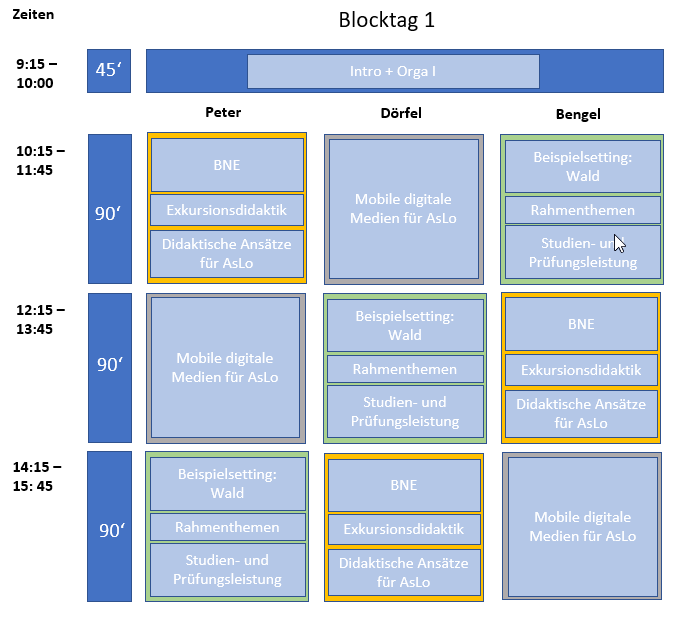
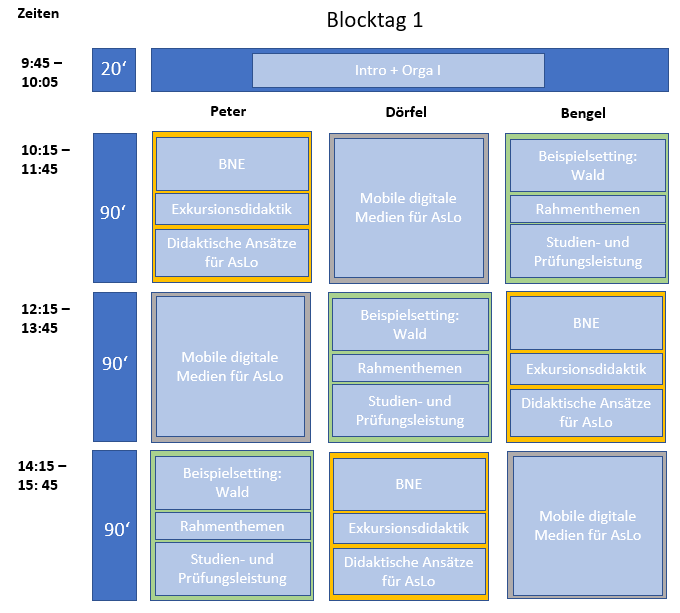
minor corrections and time table update

diff --git a/docs/units/_unit03/unit03-02_learning_material.md b/docs/units/_unit03/unit03-02_learning_material.md
@@ -31,11 +31,11 @@ Beispiele für <b>gezielte Anwendungszwecke</b> wären...
 * Evaluation
 
 Beispiele für Format die als <b>digitalte Gesamtkonzepte</b> umgesetzt werden, wären...
-* Media Guides (bspw. in Mussen)
+* Media Guides (bspw. in Museen)
 * Trails (bspw. in der Natur)
-* Rallyes (bspw. zu bestimmten Themen)
+* Rallyes (bspw. zu bestimmten Themenbereichen)
 * Games (bspw. als Wissens-Quiz, Gruppen-Wettbewerb oder Escape-Game)
-* VR-Exkursionen (bspw. zu weit entfernten oder gefährlichen Exkursionszielen)
+* VR-Exkursionen (bspw. zu weit entfernten, oder gefährlichen Exkursionszielen)
 
 ## Wie können mdM in AsLos eingesetzt werden?
 ### Didaktische Ansätze
@@ -53,7 +53,7 @@ Beachten Sie dazu die entsprechenden Literaturempfehlungen auf ILIAS
 {: .notice--info}
 ### Wahl der richtigen Anwendung
 
-Bei der Auswahl geeigneter Software und Apps gilt es, zwischen unterscheidlichen Faktoren abzuwägen. Nicht selten ist das Ergebnis ein Kompromiss zwischen den Rahmenbedingungen, den Gestaltungsmöglichkeiten und dem Support der einem als Anwender*in zur Verfügung steht. Es gilt diese Bedingungen intensiv zu prüfen, bevor damit begonnen wird Zeit, Energie und Kreativität in die Ausgestaltung fließen zu lassen. 
+Bei der Auswahl geeigneter Software und Apps gilt es, zwischen unterschiedlichen Faktoren abzuwägen. Nicht selten ist das Ergebnis ein Kompromiss zwischen den Rahmenbedingungen, den Gestaltungsmöglichkeiten und dem Support der einem als Anwender*in zur Verfügung steht. Es gilt diese Bedingungen intensiv zu prüfen, bevor damit begonnen wird Zeit, Energie und Kreativität in die Ausgestaltung fließen zu lassen. 
 
 ![Folie42]({{site.baseurl}}/assets/images/Folie42.png)
 

diff --git a/docs/units/_unit06/unit06-02_assignmentA1.md b/docs/units/_unit06/unit06-02_assignmentA1.md
@@ -32,7 +32,7 @@ Diese Übung soll Ihnen helfen sich mit diesen Themen anhand eines konkreten Bei
 Notieren Sie Ihre Ergebnisse strukturiert auf <u>zwei DIN-A4-Seiten</u>. Bereiten Sie im Anschluss mit Ihrer Gruppe eine kleine Präsentation vor (Format frei wählbar), mit deren Hilfe Sie Ihre Überlegungen den anderen Gruppen in <u>max. 12 Minuten</U> nachvollziehbar darlegen können. 
 
 ## Einreichung
-Die Ergebnisse dieser Übung müssen bis spätestens **Dienstag 18.04.23 umd 6:00 Uhr** erarbeitet und von (nur!) einem Gruppenmitglied in den entsprechenden Abgabeordner auf [ILIAS](https://ilias.uni-marburg.de/goto.php?target=crs_2862848&client_id=UNIMR){:target="_blank"} als .docx oder .pdf hochgeladen sein.
+Die Ergebnisse dieser Übung müssen bis spätestens **Dienstag 18.04.23 um 6:00 Uhr** erarbeitet und von (nur!) einem Gruppenmitglied in den entsprechenden Abgabeordner auf [ILIAS](https://ilias.uni-marburg.de/goto.php?target=crs_2862848&client_id=UNIMR){:target="_blank"} als .docx oder .pdf hochgeladen sein.
 Bennenen Sie Ihre Abgabe dazu wie folgt: **A1_[Gruppenummer].pdf** bzw **.docx**.<br>
  
 _Beispiel zur Gruppennummer:_<br> 

diff --git a/docs/units/_unit04/unit04-02_learning_material.md b/docs/units/_unit04/unit04-02_learning_material.md
@@ -8,7 +8,7 @@ header:
 ---
 
 
-Der Konzeptentwurf für Ihren außerschulischen Lernort soll Außenstehenden (z.B. andere Lehrpersonen) einen ersten Eindruck vermitteln, inhaltliche und organisatorische Strukturen darstellen und die thematische Einordnung klären. 
+Der Konzeptentwurf für Ihren außerschulischen Lernort soll Außenstehenden (z.B. anderen Lehrpersonen) einen ersten Eindruck vermitteln, inhaltliche und organisatorische Strukturen darstellen und die thematische Einordnung klären. 
 Interessenten sollen verstehen, worum es bei der geplanten Veranstaltung geht, wie das Thema angegangen wird, wer damit angesprochen werden soll und abschätzen können welcher Umfang und Aufwand mit einer Umsetzung verbunden sind.  
 
 **Beachten Sie:** Es handelt sich dabei weder um einen klassischen *Unterrichtsentwurf*, noch um eine detaillierte Ausarbeitung Ihrer Konzepte. <br>

diff --git a/docs/units/_unit06/unit06-01_overview.md b/docs/units/_unit06/unit06-01_overview.md
@@ -7,7 +7,7 @@ header:
   caption: "Foto: P.Bengel"
 ---
 
-Ergänzend zur Theorie finden Sie hier Arbeitsaufträge die Sie nach Aufforderung durch die Seminarleitung selbstständig in Ihren Kleingruppen erfüllen. Jede Aufgabe repräsentiert dabei einen essentiellen Arbeitsschritt zur Entwicklung und Umsetzung Ihres auserschulischen Lernkonzepts. 
+Ergänzend zur Theorie finden Sie hier Arbeitsaufträge die Sie nach Aufforderung durch die Seminarleitung selbstständig in Ihren Kleingruppen erfüllen. Jede Aufgabe repräsentiert dabei einen essentiellen Arbeitsschritt zur Entwicklung und Umsetzung Ihres außerschulischen Lernkonzepts. 
 <!--more-->
 
 ## Hinweis

diff --git a/docs/index.md b/docs/index.md
@@ -65,10 +65,14 @@ Zweite Blockveranstaltung (tägl. 8:00-18:00 Uhr) vom <b>17.-19.07.2023</b> in P
 ## Ablauf Block 1
 <br>
 ![block1_tag1]({{site.baseurl}}/assets/images/AsLo2023Block1_Tag1.png)
+<br>Räume: <br>gelb = 01A03<br> grün = 01A25<br> grau = 01A24
+{: .notice--info}
 <br> 
 ![block1_tag2]({{site.baseurl}}/assets/images/AsLo2023Block1_Tag2.png)
+{: .notice--info}
 <br> 
 ![block1_tag3]({{site.baseurl}}/assets/images/AsLo2023Block1_Tag3.png)
+{: .notice--info}
 <br> 
 
 
